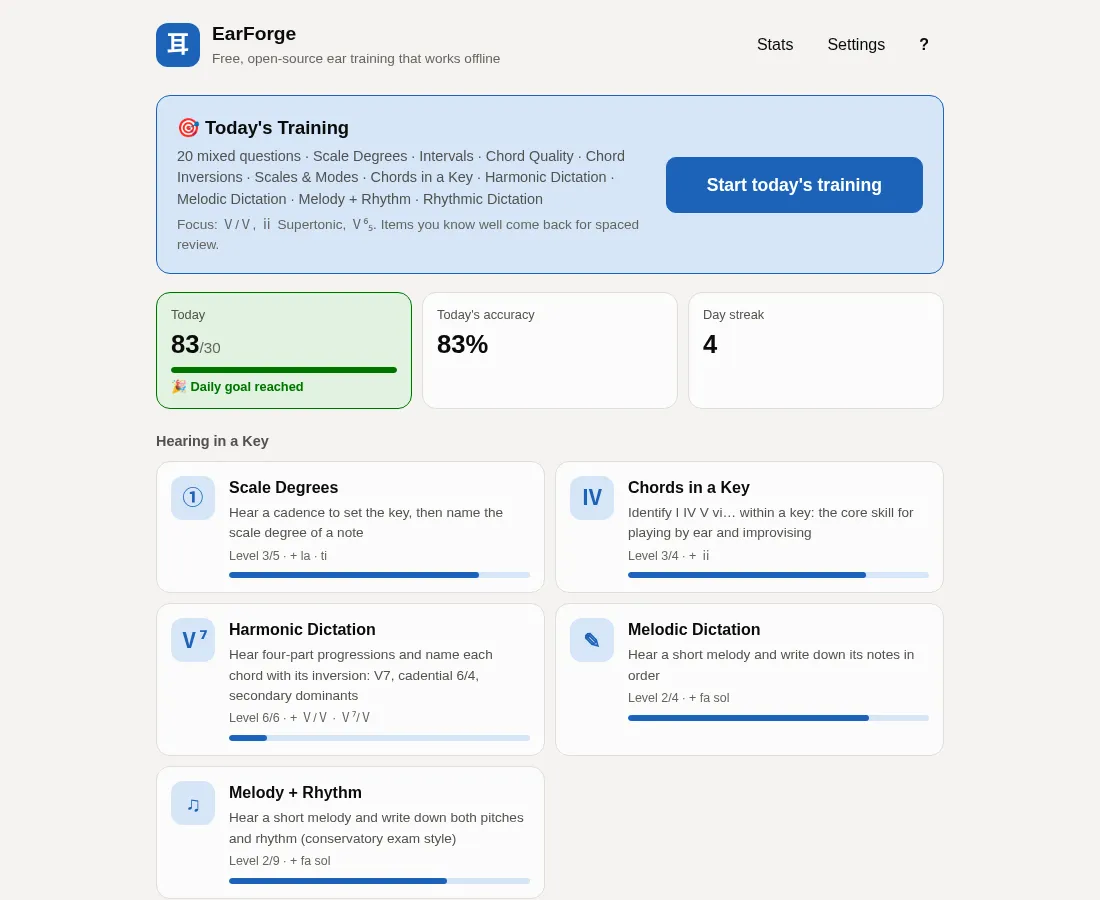
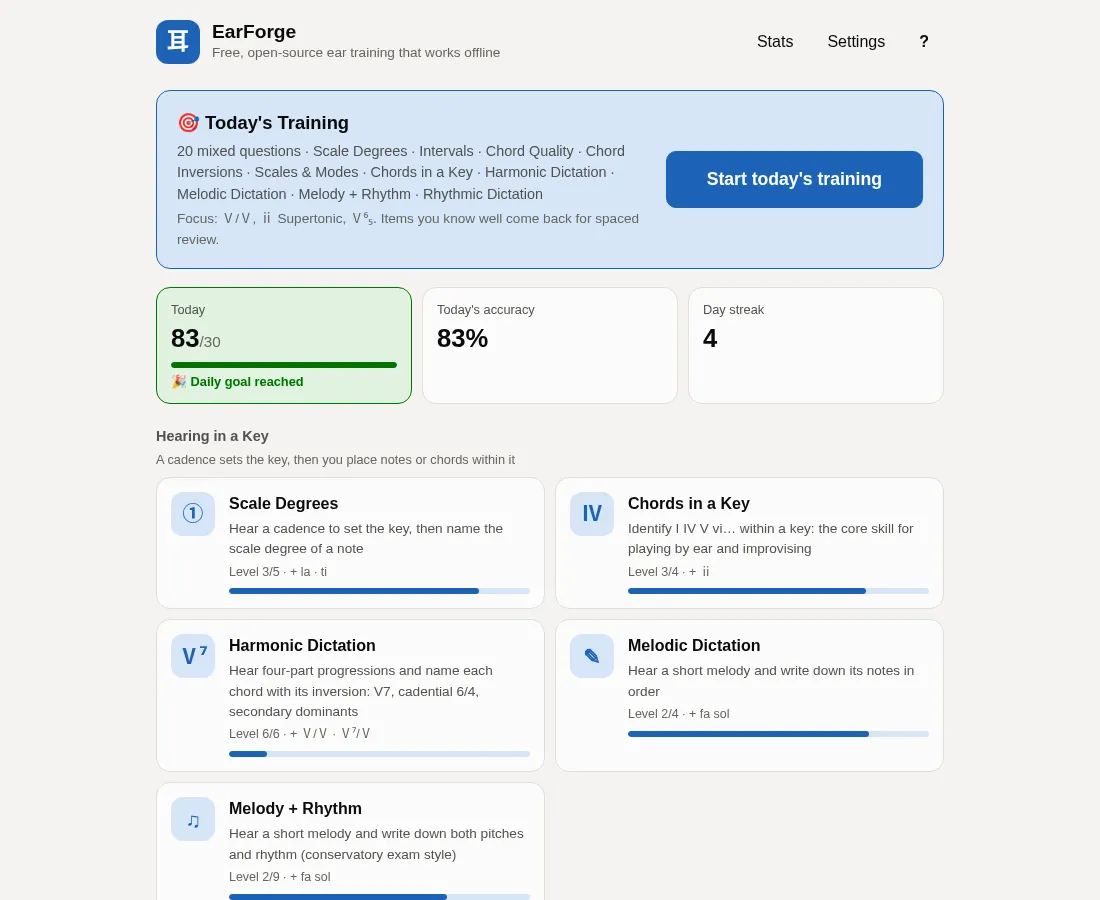
发布准备：v0.10.0 文档、版本号与截图
- package.json / package-lock.json 版本号 0.10.0
- CHANGELOG：整理 0.10.0 一节（合并编辑页与名称上限的重复条目、性能条目分组），更新比较链接
- README 中英文：新增「给老师：布置作业、收成绩」（成绩链接、成绩页、成绩单与 CSV 导出）、打开快（首屏 JS 约 122 KB gzip 与体积预算）、隐私说明、测试数（567 个单元测试 / 30 个文件，21 个 e2e 场景）与 0.10 路线图
- 截图脚本新增 result-view 与 gradebook（用源码里的编码函数生成成绩链接），重新生成 home 与 mobile

diff --git a/CHANGELOG.md b/CHANGELOG.md
@@ -5,34 +5,43 @@
 
 ## [Unreleased]
 
+## [0.10.0] - 2026-10-16
+
 ### Added
-- 成绩链接：练完固定题目的组合后，小结里可「分享成绩」——填名字（可不填，最多 20 字，记在本机），生成 `#r=` 链接并复制（手机上用系统分享面板），发给老师。链接自包含：成绩段（每题对错位图、多步题的答对步数、得分、完成时间、用时、应用版本、名字，约 55 字符）+ 原样拼接的组合分享码，20 题的模板组合整条网址约 235–350 字符。带版本与校验（覆盖成绩段与组合段），并核对得分、位图与多步题、题数与组合是否一致，被截断或改动时提示「成绩链接无法打开」。链接里没有设备或账号信息，只有学生自己填的名字。
-- 成绩页：打开成绩链接显示名字、组合、得分与正确率、完成时间与用时、每题对错（由组合的 seed 重新推出每题的练习与考点，与学生实际做的题一致）、各练习表现；可「练这一组」或返回首页。只读：不计入自己的练习记录，不自动保存；新用户先看成绩页，回到首页时再显示新手引导。
-- 成绩单（老师端）：成绩页「添加到成绩单」把成绩保存在本机，按作业（组合内容 + seed，与名称无关）汇总；每份作业一张学生 × 得分表，可按姓名 / 得分 / 用时 / 完成时间排序、查看、删除，导出 CSV（含每题对错，带 BOM，防公式注入）。首页在有成绩时显示成绩单入口；随备份导出 / 导入，「清空全部练习记录」时保留。
-- e2e 场景 `result-link`：两个学生上下文练完 5 题固定组合（部分答错）→ 分享成绩 → 老师上下文打开：得分、每题对错与考点一致，不写入练习记录；打开期间粘贴链接；添加到成绩单、排序、导出 CSV；练这一组；被改动 / 截断的链接；英文界面与窄屏；成绩页、分享面板与成绩单的无障碍审计。
+- 成绩链接：练完固定题目的组合后，小结里可「分享成绩」：填名字（可不填，最多 20 字，记在本机），生成 `#r=` 链接并复制（手机上用系统分享面板），发给老师。链接自包含：成绩段（每题对错位图、多步题的答对步数、得分、完成时间、用时、应用版本、名字，约 55 字符）加上原样拼接的组合分享码，20 题的模板组合整条网址约 220–350 字符。带版本号与校验（覆盖成绩段与组合段），并核对得分、位图、多步题、题数与组合是否一致，链接被截断或改动时提示「成绩链接无法打开」。链接里没有设备或账号信息，只有学生自己填的名字。
+- 成绩页：打开成绩链接后显示名字、组合、得分与正确率、完成时间与用时、每题对错与考点（由组合的 seed 重新推出，与学生实际做的题一致）、各练习表现；可「练这一组」或返回首页。成绩页只读：不计入自己的练习记录，也不自动保存；新用户先看成绩页，回到首页时再显示新手引导。
+- 成绩单（老师端）：在成绩页点「添加到成绩单」，成绩保存在本机，按作业（组合内容 + seed，与名称无关）汇总。每份作业一张学生 × 得分表，可按姓名、得分、用时、完成时间排序，可查看、删除，可导出 CSV（含每题对错，带 BOM，防公式注入）。有成绩时首页显示成绩单入口；成绩单随备份导出 / 导入，「清空全部练习记录」时保留。
+- 首屏体积预算 `scripts/size-budget.mjs`（`npm run size`，`npm run check` 与 CI 在构建后运行）：入口 gzip ≤ 82 KB、首屏 JS gzip ≤ 127 KB、CSS gzip ≤ 11 KB，超出即失败；说明见 CONTRIBUTING。
+- e2e 场景 `result-link`：两个学生分别练完 5 题固定组合（部分答错）并分享成绩，老师打开后核对得分、每题对错与考点，且不写入练习记录；覆盖打开期间粘贴新链接、添加到成绩单、排序、导出 CSV、练这一组、被改动 / 截断的链接、英文界面与窄屏，以及成绩页、分享面板与成绩单的无障碍审计。
+- README 截图新增成绩页与成绩单（`result-view`、`gradebook`，由 `scripts/screenshots.mjs` 用源码里的编码函数生成成绩链接）。
 
 ### Changed
-- 组合编辑页（手机上 4 个练习时页面从约 4500px 缩到约 1200px）：每个练习改为可折叠的卡片，标题行显示一行摘要（如「已选 9/12 · 柱式 · 仅原位 · ×2」），考点不足时标红；新加的练习展开并滚到可见处、其余折叠，多个练习的组合打开时全部折叠。「添加练习」改为「已选练习」标题旁的展开按钮（还没有练习时默认展开）。取消 / 保存 / 保存并开始固定在底部操作栏（留出 iPhone 底部安全区），校验提示显示在操作栏上方，保存失败时焦点移到第一个需要修正的地方（名称、题数、添加练习或对应练习）。级别按钮部分选中时显示虚线框（`aria-pressed="mixed"`），考点按钮更紧凑，宽屏上级别排成两列。
-- 组合编辑页的名称上限改为按字符（码点）计，与保存时一致（emoji 算一个字符）；新建时已存满 100 个则停用保存并提示。
+- 组合编辑页改为可折叠卡片（手机上 4 个练习时页面从约 4500px 缩到约 1200px）：
+  - 每个练习的标题行显示一行摘要（如「已选 9/12 · 柱式 · 仅原位 · ×2」），考点不足时标红；新加的练习展开并滚到可见处、其余折叠，打开多练习的组合时全部折叠。
+  - 「添加练习」改为「已选练习」标题旁的展开按钮（还没有练习时默认展开）。
+  - 取消 / 保存 / 保存并开始固定在底部操作栏（留出 iPhone 底部安全区），校验提示显示在操作栏上方；保存失败时焦点移到第一个需要修正的地方。
+  - 级别按钮部分选中时显示虚线框（`aria-pressed="mixed"`），考点按钮更紧凑，宽屏上级别排成两列。
 - 新用户手机端走查后的体验修整：
-  - 练习的「怎么练」说明卡片只显示在开始页，开始答题后不再占屏（手机上原来约 280px，答错时反馈与「下一题」被挤到首屏以外）。
+  - 练习的「怎么练」说明卡片只在开始页显示，开始答题后不再占屏（手机上原来约 280px，答错时反馈与「下一题」被挤出首屏）。
   - 触屏设备隐藏快捷键提示（按钮里的键名、选项角标、说明卡片的快捷键列表、首页与引导里的快捷键说明）；顶栏、重听行、分段按钮与考点按钮的点按区域不小于 44px。
-  - 按钮的悬停高亮只在能悬停的设备上生效：手机上点过的卡片、引导选项不再残留蓝框，看起来像被选中。
-  - 首页：新手在「调内音级」「音程识别」卡片上标出「推荐起步」；每个分组标题下加一句说明（如「不依赖调性，单独辨认音程、和弦、音阶与节奏」）；页脚改为「想单项练习？建议先练『调内音级』…」，不再与「从今日训练开始」的提示冲突。
-  - 新手引导最后一步的按钮从「去首页 · 开始今日训练」改为「进入首页 →」（它只回到首页，并不会开始训练）。
-  - 设置页的唱名选项下显示当前选项的一句说明（首调 / 固定调 / 简谱 / 音名的区别），与引导一致。
+  - 悬停高亮只在能悬停的设备上生效：手机上点过的卡片、引导选项不再残留蓝框。
+  - 首页：新手在「调内音级」「音程识别」卡片上标出「推荐起步」；每个分组标题下加一句说明；页脚改为「想单项练习？建议先练『调内音级』…」，不再与「从今日训练开始」的提示冲突。
+  - 新手引导最后一步的按钮从「去首页 · 开始今日训练」改为「进入首页 →」（它只回到首页，不会开始训练）。
+  - 设置页的唱名选项下显示当前选项的一句说明（首调 / 固定调 / 简谱 / 音名的区别）。
   - 今日训练小结按正确率给一句建议：低于 50% 时说明刚开始错得多很正常、答错的考点之后会更常出现；90% 以上时说明掌握后会自动升级。
-  - 顶栏副标题在窄屏折成两行时两行等长（如模拟考试页）。
-- 首屏更小（性能）：练习页（含五线谱、记谱、打节奏与视唱面板）、今日训练、模拟考试、分享落地页改为按需加载的分块，首屏之后后台预取（练习页优先）；首页的考试入口卡片与试卷列表拆成独立的小模块（`ui/ExamCard.tsx`、`engine/examPresets.ts`）。英文词典改为单独的分块：英文界面在首次渲染前加载（`index.html` 里的内联脚本按存储 / 浏览器语言提前 modulepreload），中文界面在首屏之后后台预取，翻译接口 `t()` 仍是同步的。首屏 JS（入口 + modulepreload）gzip 165.0 → 122.4 KB（brotli 140.4 → 106.2 KB），入口分块 gzip 105.9 → 77.9 KB；全部分块仍由 service worker 预缓存，离线可用。
-- 打开练习、今日训练、考试或练习组合页面后在空闲时预热音频上下文，点「开始」出第一题时不再同步新建 AudioContext（4 倍 CPU 降速、Slow 4G 下从点「开始」到出题：调内音级 263 → 243ms，和声听写 312 → 284ms，中位数）。
-- 新增首屏体积预算 `scripts/size-budget.mjs`（`npm run size`，`npm run check` 与 CI 在构建后运行）：入口 gzip ≤ 82 KB、首屏 JS gzip ≤ 127 KB、CSS gzip ≤ 11 KB，超出即失败；说明见 CONTRIBUTING。
+  - 顶栏副标题在窄屏折成两行时两行等长。
+- 首屏更小、出题更快（性能）：
+  - 练习页（含五线谱、记谱、打节奏与视唱面板）、今日训练、模拟考试、分享落地页改为按需加载的分块，首屏之后在后台预取（练习页优先）；首页的考试入口与试卷列表拆成独立的小模块。
+  - 英文词典改为单独的分块：英文界面在首次渲染前加载（`index.html` 里的内联脚本按存储 / 浏览器语言提前 modulepreload），中文界面在首屏之后后台预取；翻译接口 `t()` 仍是同步的。
+  - 首屏 JS（入口 + modulepreload）gzip 165.0 → 122.4 KB（brotli 140.4 → 106.2 KB），入口分块 gzip 105.9 → 77.9 KB；全部分块仍由 service worker 预缓存，离线可用。
+  - 打开练习、今日训练、考试或组合页后在空闲时预热音频上下文，点「开始」出第一题时不再同步新建 AudioContext（4 倍 CPU 降速、Slow 4G 下中位数：调内音级 263 → 243ms，和声听写 312 → 284ms）。
 
 ### Fixed
-- 组合名称含 emoji 时，保存按 UTF-16 截断到 40 会拆开代理对，这样的组合分享出去的链接校验失败、打不开；名称上限统一按字符（码点）计，孤立代理项替换为 �。
-- 分享链接的取值范围与本地组合不一致：链接里题数 1–4、权重 >3 或小数、需要麦克风的练习（视唱、节奏模仿）、重复的练习都能通过，落地页「直接开始」与「保存后再开始」出的题不同，视唱题还会混进组合。解码改为与本地规范化相同的规则。
-- 从聊天软件复制的链接打不开：带上尾随标点（`）`、`。`、`.`、`,`）、在 hash 后追加 `?from=…`、整个 hash 被百分号编码（`#s%3D…`）、链接折行夹入换行或空格时，现在都能识别。
-- 「我的组合」满 100 个后，新建 / 复制 / 保存分享的组合会悄悄删掉最早的组合；改为拒绝保存并提示先删除（列表页的新建、模板与复制按钮停用）。
-- 复制组合的名称会重复叠加「（副本）（副本）」、长名称的后缀被截掉而与原名相同；改为「（副本）」「（副本 2）」…编号且截短原名保证后缀完整。
+- 组合名称的长度按 UTF-16 计：含 emoji 时截断到 40 会拆开代理对，这样的组合分享出去链接校验失败、打不开；名称上限统一按字符（码点）计（编辑页与保存一致，emoji 算一个字符），孤立代理项替换为 �。
+- 分享链接的取值范围与本地组合不一致：链接里题数 1–4、权重大于 3 或为小数、需要麦克风的练习（视唱、节奏模仿）、重复的练习都能通过，落地页「直接开始」与「保存后再开始」出的题不同，视唱题还会混进组合。解码改为与本地规范化相同的规则。
+- 从聊天软件复制的链接打不开：带尾随标点（`）`、`。`、`.`、`,`）、hash 后追加了 `?from=…`、整个 hash 被百分号编码（`#s%3D…`）、链接折行夹入换行或空格时，现在都能识别。
+- 「我的组合」满 100 个后，新建 / 复制 / 保存分享的组合会悄悄删掉最早的组合；改为拒绝保存并提示先删除（列表页的新建、模板与复制按钮停用，新建时编辑页停用保存）。
+- 复制组合的名称会重复叠加「（副本）（副本）」，长名称的后缀被截掉而与原名相同；改为「（副本）」「（副本 2）」…编号，并截短原名保证后缀完整。
 - 在落地页上再打开另一个分享链接时，页面显示新组合，但「开始练习 / 保存」仍用旧组合。
 - 考试、组合练习、今日训练或编辑组合进行中打开分享链接，进度会直接丢失；现在先确认。重新查看新手引导时打开链接不再被引导页挡住。
 - 落地页上按浏览器后退没有反应（清掉 hash 后历史记录里是同一网址）；现在回到首页。
@@ -175,7 +184,8 @@
 - Web Audio 合成钢琴音色；YIN 实时音高检测。
 - 首调唱名、简谱、固定调唱名、字母音名四种显示方式；深色模式；PWA 离线可用。
 
-[Unreleased]: https://github.com/<your-username>/earforge/compare/v0.9.0...HEAD
+[Unreleased]: https://github.com/<your-username>/earforge/compare/v0.10.0...HEAD
+[0.10.0]: https://github.com/<your-username>/earforge/compare/v0.9.0...v0.10.0
 [0.9.0]: https://github.com/<your-username>/earforge/compare/v0.8.0...v0.9.0
 [0.8.0]: https://github.com/<your-username>/earforge/compare/v0.7.0...v0.8.0
 [0.7.0]: https://github.com/<your-username>/earforge/compare/v0.6.0...v0.7.0

diff --git a/README.en.md b/README.en.md
@@ -62,6 +62,19 @@ Compared with popular paid ear-training apps such as EarMaster or Tenuto: those 
   </tr>
 </table>
 
+### For teachers: assign homework, collect results
+- **Result links**: after finishing a fixed-question set, a student adds their name under "Share your result" in the summary and taps "Create & copy result link"; the result link (about 220–350 characters for a 20-question assignment) can be sent to the teacher in any chat app. The link carries per-question right/wrong, score, finish time and duration, and has a checksum, so a truncated or edited link won't open. It contains no device or account information.
+- **Result page**: opening the link shows the score, each question with its item (regenerated from the set's seed, so it matches what the student actually got) and per-exercise performance. It is view-only and doesn't count toward the teacher's own practice.
+- **Gradebook**: "Add to gradebook" collects results per assignment into a students × score table that can be sorted and exported as CSV (with per-question right/wrong, opens cleanly in Excel). The gradebook lives in the teacher's browser and is included in backups.
+- Everything happens in the browser: no server, no sign-up, no accounts for students or teachers.
+
+<table>
+  <tr>
+    <td width="50%"><img src="docs/screenshots/result-view-en.webp" alt="Result page: a student's score, each question with its item, and per-exercise performance"></td>
+    <td width="50%"><img src="docs/screenshots/gradebook-en.webp" alt="Gradebook: scores, durations and finish times of all students for one assignment, with CSV export"></td>
+  </tr>
+</table>
+
 ### Sight-singing
 - **Sight-singing library**: 48 graded pieces, both original drills and public-domain folk and classical melodies. Transpose them to your range, sing along with a metronome and get note-by-note pitch scoring, or practise note by note.
 - **Sight-singing / echo exercise**: built-in YIN pitch detection with a live tuner. Octaves are ignored, so it works for any voice.
@@ -80,7 +93,8 @@ Compared with popular paid ear-training apps such as EarMaster or Tenuto: those 
 - **English and Chinese, light and dark**: follows your system's color scheme. New users get the language of their browser, and you can switch in Settings.
 - **Keyboard shortcuts**: answer multiple-choice questions with 1–9, 0 and Q–P (up to 20 options, shown on each button), hold Shift with an answer key to audition, Space to replay, Enter for the next question. The notation editor and rhythm tapping are fully keyboard-driven too; the full list is under "About & help" in the app.
 - **Accessibility**: full keyboard control, screen-reader announcements for answer feedback, WCAG AA color contrast, and 0 axe-core violations.
-- **Mobile-friendly**: designed for touch, with compact narrow-screen layouts.
+- **Mobile-friendly**: designed for touch, with compact narrow-screen layouts, tap targets of at least 44px and no keyboard hints on touch screens.
+- **Fast to load**: about 122 KB of JS (gzip) on first load; the practice page, exams and more load on demand and are prefetched in the background. A size budget script checks this after every build and fails if it is exceeded.
 
 <p align="center">
   <img src="docs/screenshots/mobile-en.webp" alt="Home page on a phone" width="300">
@@ -127,11 +141,11 @@ npm install
 npm run dev      # dev server at http://localhost:5173
 npm test         # unit tests
 npm run build    # production build into dist/, deployable to any static host
-npm run check    # pre-commit check: lint (warnings fail) + unit tests + build
+npm run check    # pre-commit check: lint (warnings fail) + unit tests + build + first-load size budget
 npm run e2e      # browser end-to-end tests (puppeteer-core + local Chrome)
 ```
 
-There are currently 469 unit tests (vitest, 23 files) and 17 browser end-to-end scenarios (`e2e/scenarios/`).
+There are currently 567 unit tests (vitest, 30 files) and 21 browser end-to-end scenarios (`e2e/scenarios/`).
 
 Stack: Vite + React + TypeScript, with no runtime dependencies besides React and no backend.
 
@@ -150,6 +164,7 @@ For other static hosts, run `npm run build` to deploy at the root, or `BASE_PATH
 
 - No accounts, no server, no analytics and no third-party scripts.
 - Progress and settings are stored only in your browser's localStorage. You can export or import a backup in Settings. Clearing your browser data also clears your progress.
+- A result link contains only the results and the name the student typed (optional), and the student sends it themselves; the teacher's gradebook is stored only in the teacher's browser.
 - Microphone audio is analysed for pitch on your device in real time. It is never recorded or uploaded.
 - The only network requests are the optional sampled instruments: the sampled piano is downloaded once from the public Tone.js host, and the sampled guitar / violin / flute from the tonejs-instruments GitHub Pages site. The synthesized sounds need no network.
 
@@ -173,6 +188,7 @@ Done (see [CHANGELOG.md](CHANGELOG.md)):
 - [x] Scales and modes, chord inversions, compound intervals, in-repo e2e and CI, GitHub Pages deployment, in-app help (0.7)
 - [x] Harmonic dictation (four-part, also in mock exams), more instruments and a random instrument per question, 20 answer keys (0.8)
 - [x] Custom practice sets, share links and fixed questions (0.9)
+- [x] Result links and a gradebook for teachers, a phone-friendly set editor, faster first load with a size budget (0.10)
 
 Ideas for next steps (discussion welcome in Issues):
 

diff --git a/README.md b/README.md
@@ -62,6 +62,19 @@
   </tr>
 </table>
 
+### 给老师：布置作业、收成绩
+- **成绩链接**：学生练完固定题目的组合后，在小结的「分享成绩」里填上名字，点「生成并复制成绩链接」，就得到一条成绩链接（20 题的作业约 220–350 字符），用聊天软件发给老师即可。链接里带每题对错、得分、完成时间与用时，带校验，被截断或改动时打不开；不含设备或账号信息。
+- **成绩页**：老师打开链接即可看到得分、每题对错与考点（由组合的 seed 重新推出，与学生实际做的题一致）和各练习表现。只是查看，不计入老师自己的练习记录。
+- **成绩单**：在成绩页点「添加到成绩单」，成绩按作业汇总成一张学生 × 得分表，可排序，可导出 CSV（含每题对错，Excel 直接打开）。成绩单保存在老师的浏览器里，随备份导出 / 导入。
+- 全程在浏览器里完成：没有服务器、不用注册，学生和老师都不需要账号。
+
+<table>
+  <tr>
+    <td width="50%"><img src="docs/screenshots/result-view-zh.webp" alt="成绩页：学生的得分、每题对错与考点、各练习表现"></td>
+    <td width="50%"><img src="docs/screenshots/gradebook-zh.webp" alt="成绩单：一份作业里各学生的得分、用时与完成时间，可导出 CSV"></td>
+  </tr>
+</table>
+
 ### 视唱
 - **视唱曲库**：48 首从易到难的曲目，包括原创分级练习和公有领域的民歌与古典旋律。可移调到你的音区，跟节拍器演唱，逐音评分；也可以逐音练习。
 - **视唱 / 模唱练习**：内置 YIN 音高检测，对着麦克风唱，实时显示音准偏差（不计八度，男女声都适用）。
@@ -80,7 +93,8 @@
 - **中英双语、浅色 / 深色**：跟随系统明暗；新用户按浏览器语言显示，设置里可切换。
 - **键盘快捷键**：选择题用 1–9、0、Q–P 作答（最多 20 个选项，按钮右上角标出），Shift + 作答键试听，空格重听，回车下一题；记谱编辑器与节奏模仿也能全键盘操作，完整列表见应用内「关于与帮助」。
 - **无障碍**：完整的键盘操作、读屏播报答题反馈、颜色对比度达到 WCAG AA，axe-core 审计 0 违规。
-- **手机友好**：按触屏设计，窄屏布局紧凑。
+- **手机友好**：按触屏设计，窄屏布局紧凑，点按区域不小于 44px，触屏上不显示快捷键提示。
+- **打开快**：首屏 JS 约 122 KB（gzip），练习页、考试等按需加载并在后台预取；构建后由体积预算脚本检查，超出即失败。
 
 <p align="center">
   <img src="docs/screenshots/mobile-zh.webp" alt="手机上的首页" width="300">
@@ -127,11 +141,11 @@ npm install
 npm run dev      # 开发服务器 http://localhost:5173
 npm test         # 单元测试
 npm run build    # 生产构建，输出 dist/，可部署到任意静态托管
-npm run check    # 提交前检查：lint（警告也算失败）+ 单元测试 + 构建
+npm run check    # 提交前检查：lint（警告也算失败）+ 单元测试 + 构建 + 首屏体积预算
 npm run e2e      # 浏览器端到端测试（puppeteer-core + 本机 Chrome）
 ```
 
-目前有 469 个单元测试（vitest，23 个文件）和 17 个浏览器端到端场景（`e2e/scenarios/`）。
+目前有 567 个单元测试（vitest，30 个文件）和 21 个浏览器端到端场景（`e2e/scenarios/`）。
 
 技术栈：Vite + React + TypeScript，除 React 外没有运行时依赖，没有后端。
 
@@ -150,6 +164,7 @@ npm run e2e      # 浏览器端到端测试（puppeteer-core + 本机 Chrome）
 
 - 没有账号、没有服务器、没有统计追踪或第三方脚本。
 - 练习记录与设置只保存在浏览器的 localStorage 里，可在设置页导出或导入备份；清除浏览器数据会一并清除记录。
+- 成绩链接只包含成绩与学生自己填的名字（可不填），由学生自己发送；老师的成绩单只保存在老师的浏览器里。
 - 麦克风的声音只在本机实时分析音高，不录音，也不上传。
 - 唯一的网络请求是可选的采样乐器：选择采样钢琴时从 Tone.js 的公开托管地址、选择采样木吉他 / 小提琴 / 长笛时从 tonejs-instruments 的 GitHub Pages 下载一次音频文件。合成音色无需联网。
 
@@ -173,6 +188,7 @@ npm run e2e      # 浏览器端到端测试（puppeteer-core + 本机 Chrome）
 - [x] 音阶与调式、和弦转位、复音程、仓库内 e2e 与 CI、GitHub Pages 部署、应用内帮助（0.7）
 - [x] 和声听写（四部和声，进入模拟考试）、更多乐器音色与每题随机换乐器、20 个作答键（0.8）
 - [x] 自定义练习组合、分享链接与固定题目（0.9）
+- [x] 成绩链接与成绩单（老师收作业）、组合编辑页手机适配、首屏性能与体积预算（0.10）
 
 接下来的想法（欢迎在 Issue 里讨论）：
 
